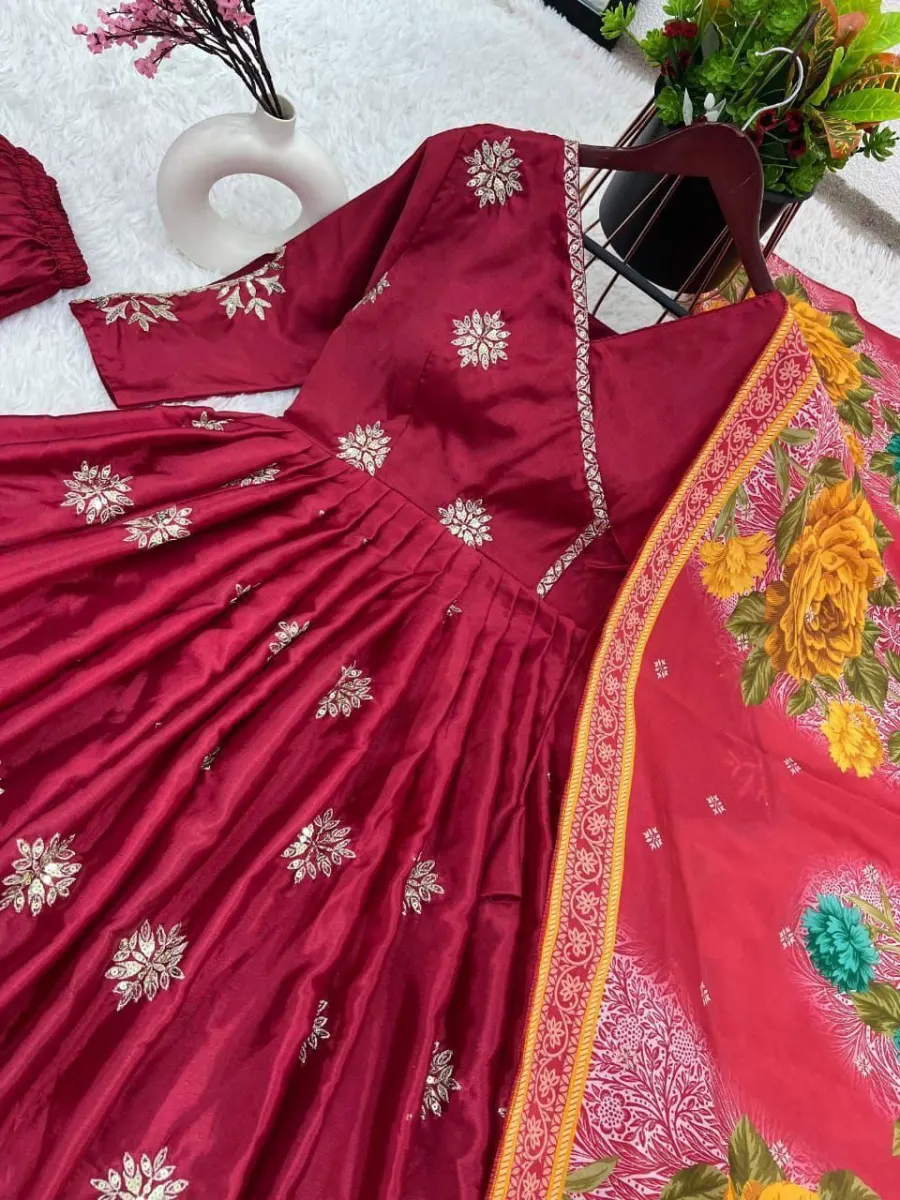
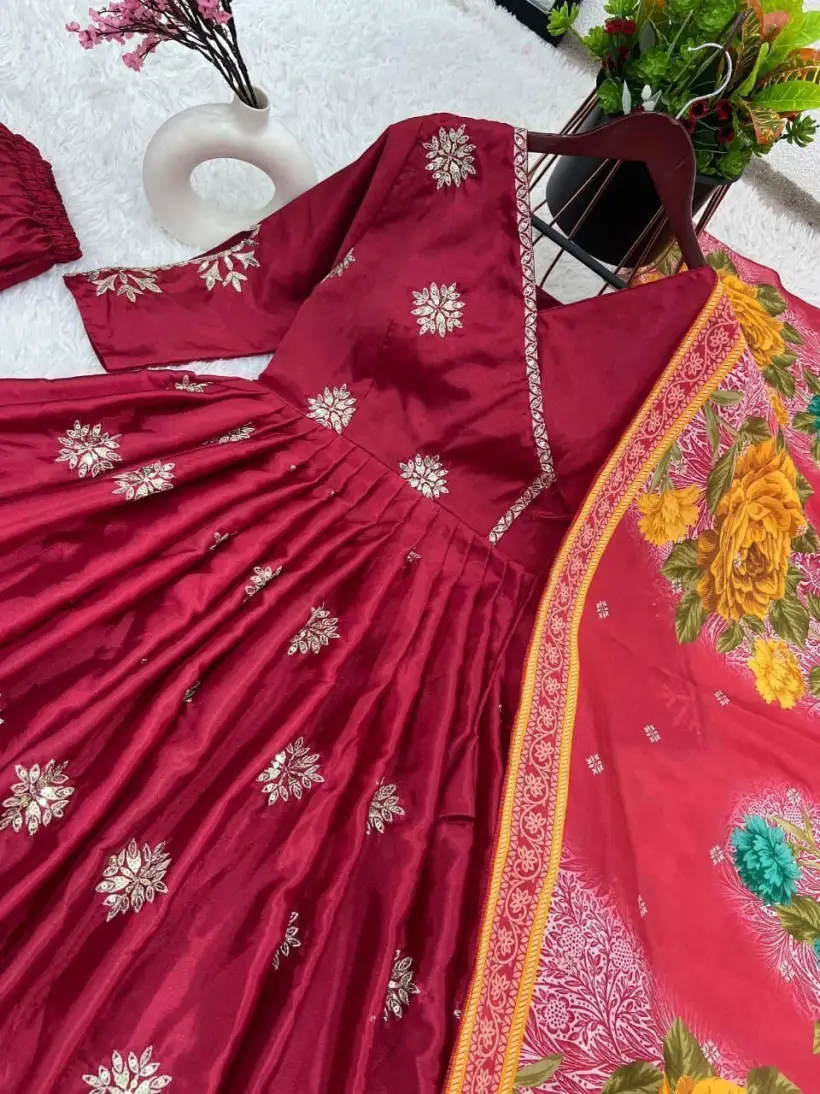
Optimize remaining storefront images

Changed region(s): [[0.0915, 0.404, 0.122, 0.4351]]

diff --git a/api/src/functions/data.js b/api/src/functions/data.js
@@ -185,9 +185,11 @@ const normalizeProduct = (product) => {
 const dataImagePattern = /^data:(image\/(?:jpeg|png|webp));base64,([a-z0-9+/=\r\n]+)$/i;
 const productImageUrl = (productId, index, version) => `/api/product-image?id=${encodeURIComponent(productId)}&index=${index}&v=${version}`;
 const mediaImageUrl = (key, version) => `/api/media-image?key=${encodeURIComponent(key)}&v=${version}`;
-const mediaVariantConfig = (variant) => variant === 'hero-v1'
-  ? { width: 1800, height: 1000, quality: 76 }
-  : null;
+const mediaVariantConfig = (variant) => {
+  if (variant === 'hero-v1') return { width: 1800, height: 1000, quality: 76 };
+  if (variant === 'review-v1') return { width: 900, height: 1100, quality: 78 };
+  return null;
+};
 const optimizeMediaVariant = async (data, variant) => {
   const config = mediaVariantConfig(variant);
   if (!config) return null;
@@ -205,7 +207,9 @@ const externalizeMediaImage = async (db, key, value, operationTime = nowIso()) =
   const version = crypto.createHash('sha256').update(data).digest('hex').slice(0, 16);
   const variants = /banner/i.test(key)
     ? { 'hero-v1': await optimizeMediaVariant(data, 'hero-v1') }
-    : {};
+    : /^review-/i.test(key)
+      ? { 'review-v1': await optimizeMediaVariant(data, 'review-v1') }
+      : {};
   await db.collection('mediaImages').updateOne(
     { key },
     { $set: { key, contentType: match[1].toLowerCase(), data, variants, version, updatedAt: operationTime }, $setOnInsert: { createdAt: operationTime } },

diff --git a/src/components/ReviewsSection.jsx b/src/components/ReviewsSection.jsx
@@ -1,6 +1,7 @@
 import React from 'react';
 import { Quote, Star } from 'lucide-react';
 import { useReviews } from '../context/ReviewContext';
+import { mediaImageVariant } from '../utils/imageUrl';
 import './ReviewsSection.css';
 
 const Stars = ({ rating }) => (
@@ -13,7 +14,7 @@ const Stars = ({ rating }) => (
 
 const ReviewCard = ({ review }) => (
     <article className={`testimonial-card ${review.image ? 'with-image' : ''}`}>
-        {review.image && <img src={review.image} alt={`Review shared by ${review.reviewerName}`} loading="lazy" />}
+        {review.image && <img src={mediaImageVariant(review.image, 'review-v1')} alt={`Review shared by ${review.reviewerName}`} loading="lazy" decoding="async" />}
         <div className="testimonial-copy">
             <Quote className="testimonial-quote" size={28} />
             <Stars rating={Number(review.rating) || 5} />

diff --git a/src/components/FlashSaleSection.jsx b/src/components/FlashSaleSection.jsx
@@ -98,7 +98,7 @@ const FlashSaleSection = () => {
                                         <img
                                             src={images[filename] || productImageVariant(product.image, 'card')}
                                             srcSet={images[filename] ? undefined : productImageSrcSet(product.image)}
-                                            sizes="(max-width: 600px) 88vw, (max-width: 900px) 44vw, 280px"
+                                            sizes="(max-width: 600px) 72vw, (max-width: 900px) 44vw, 280px"
                                             alt={product.name}
                                             loading="lazy"
                                             decoding="async"
